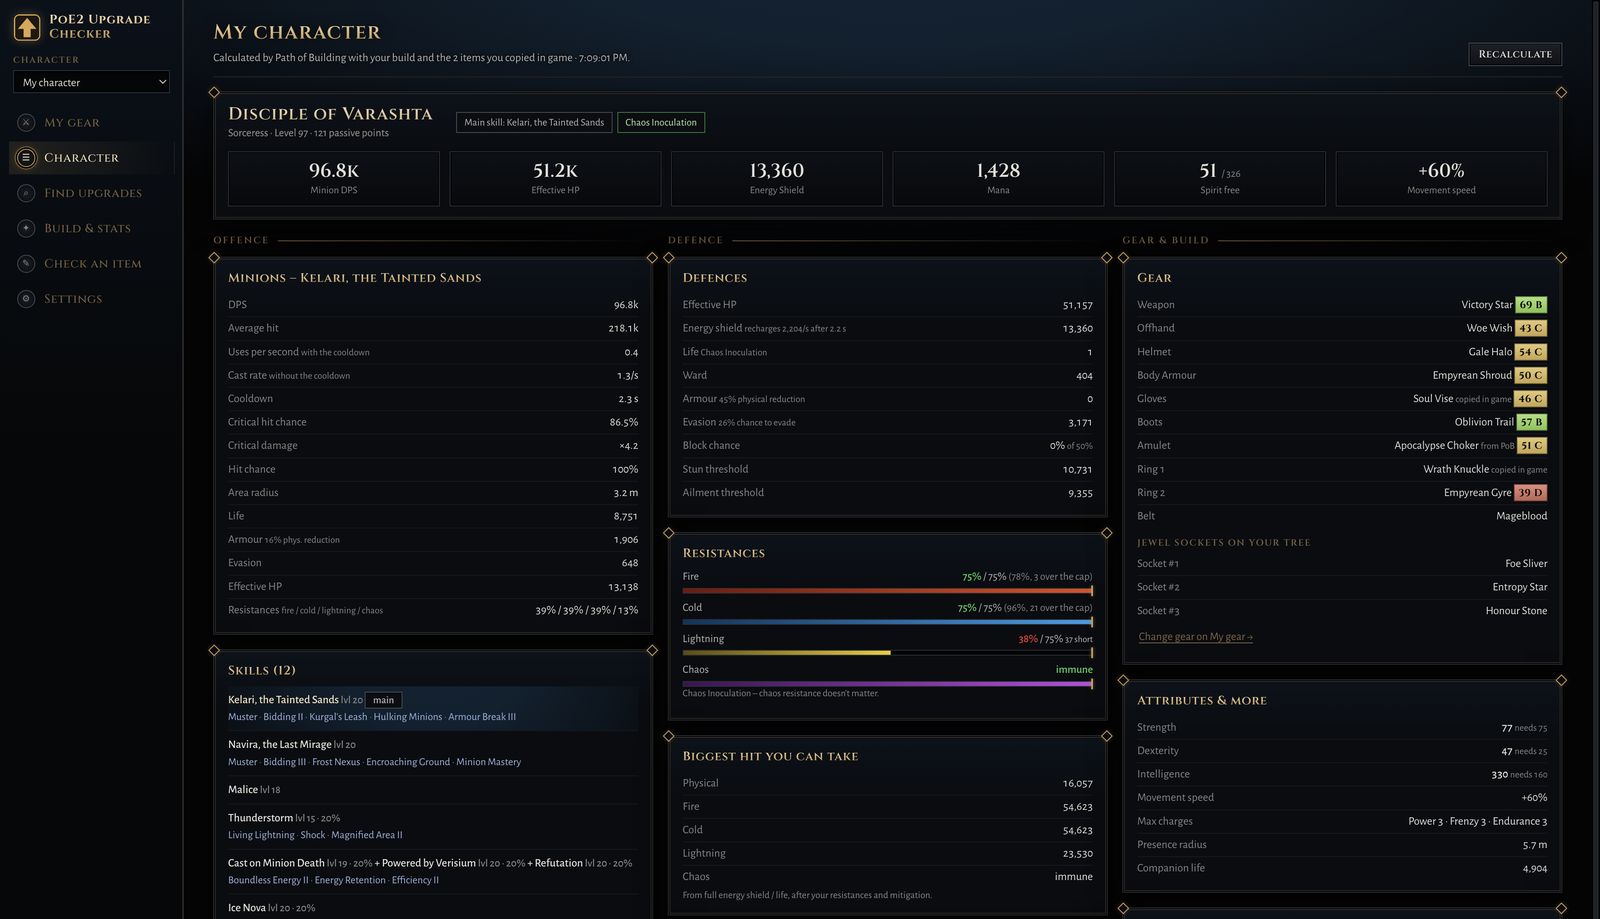
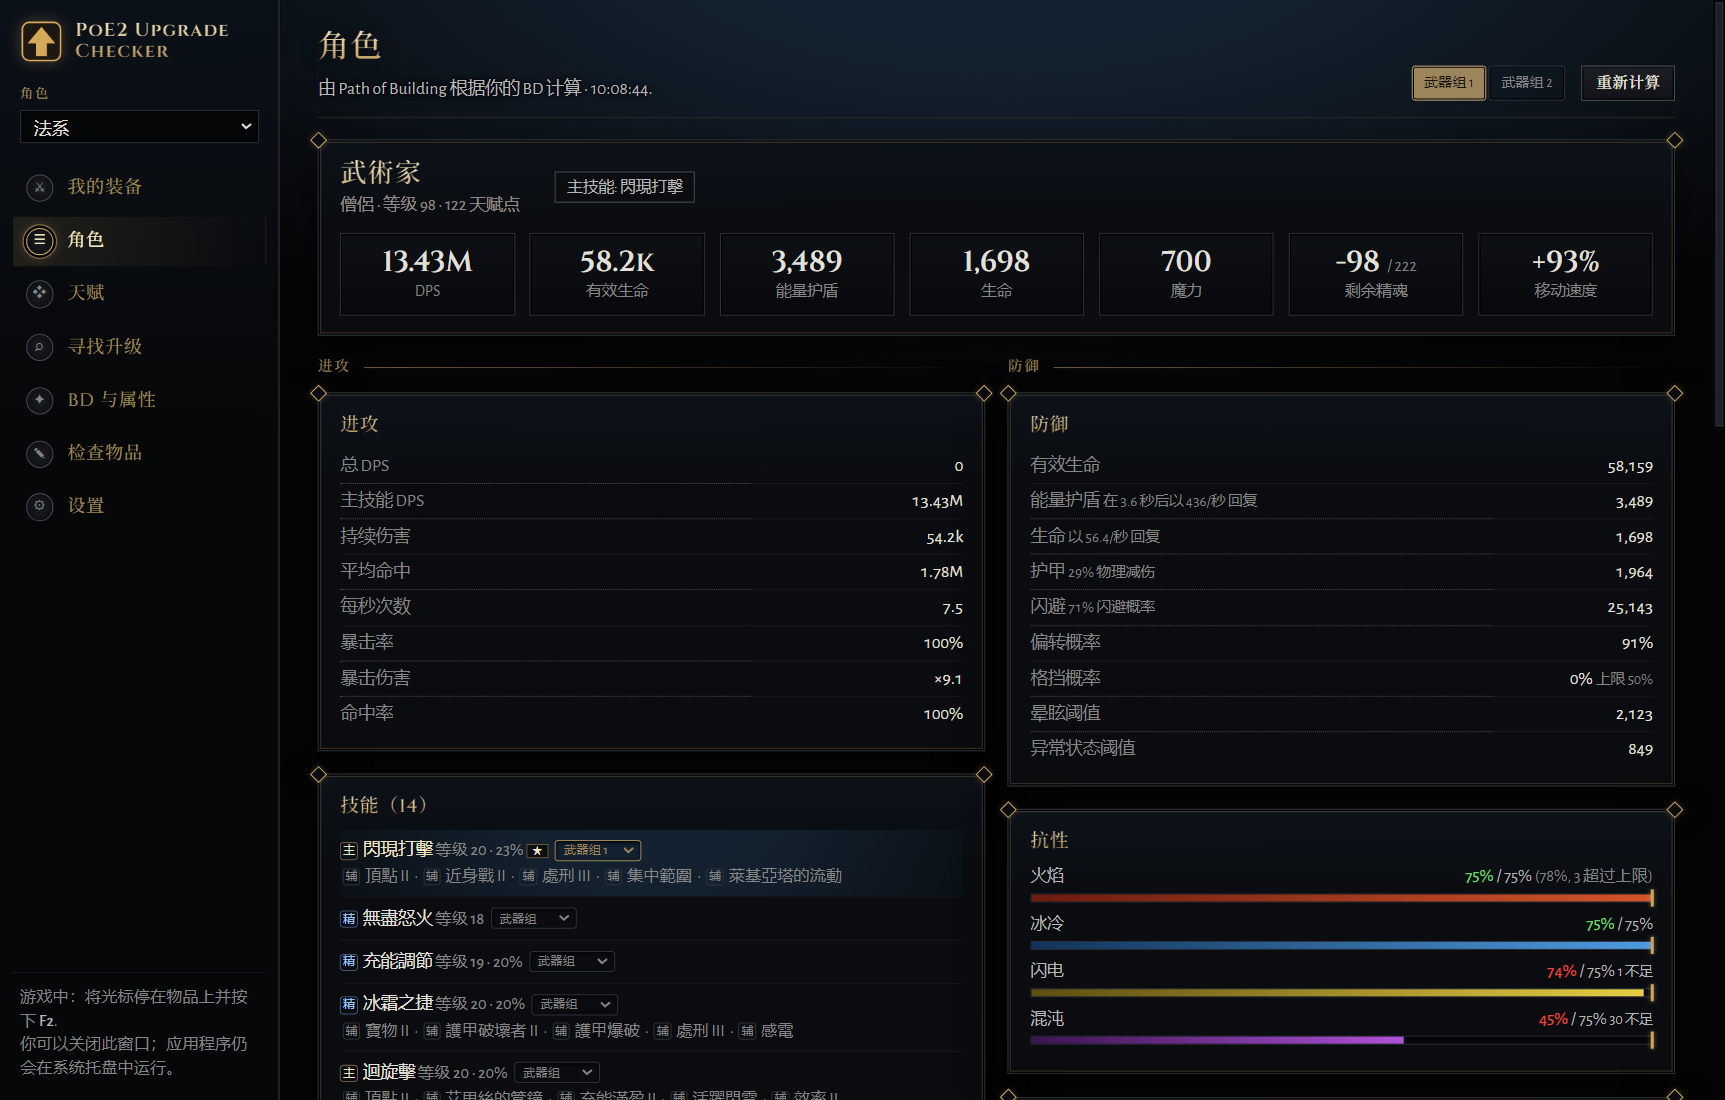
Fix character heading + working passive-tree filters; refresh screenshots
- Character page: the heading is the generic 'Character' instead of the profile
  name, which read like a build-type label (e.g. '法系') on an attack build.
- Passive tree: the legend chips (Allocated / weapon sets / Keystones /
  Notables / Ascendancy / small passives) now work as filters: click one to
  dim the rest and zoom to those nodes, click again to clear.
- Import: auto-picked gear-score profile now decides attack vs spell from the
  main skill's own attack tag, so an ES-heavy attack build is no longer set to
  the ES spellcaster profile just because its Energy Shield is high.
- README: replace screenshots with My gear / Character / Passive tree from the
  Chinese UI.

diff --git a/src/ui/passives.js b/src/ui/passives.js
@@ -39,6 +39,7 @@
   let view = { s: 0.02, x: 0, y: 0 }; // world -> screen: x*s + view.x
   let hover = null;
   let matches = new Set();
+  let filter = null; // a legend chip picked: highlight/zoom just those nodes
   let dragging = null;
 
   const canvas = $('#passCanvas');
@@ -92,6 +93,20 @@
   // shared points are yellow; points that only work with weapon set 1 / 2 are red / green
   function setOf(n) { return n.flags & 32 ? 1 : n.flags & 64 ? 2 : 0; }
   function allocColor(n) { const set = setOf(n); return set === 1 ? COLORS.set1 : set === 2 ? COLORS.set2 : COLORS.on; }
+
+  // which nodes a picked legend chip keeps in focus (the rest are dimmed)
+  function filterMatch(n) {
+    switch (filter) {
+      case 'on': return !!(n.flags & 8);
+      case 'set1': return setOf(n) === 1;
+      case 'set2': return setOf(n) === 2;
+      case 'keystone': return !!(n.flags & 2);
+      case 'notable': return !!(n.flags & 1);
+      case 'ascendancy': return !!(n.flags & 4);
+      case 'normal': return !(n.flags & (2 | 1 | 4 | 16));
+      default: return true;
+    }
+  }
 
   function colorOf(n) {
     if (n.flags & 8) return allocColor(n);
@@ -148,11 +163,13 @@
       }
       ctx.strokeStyle = edge;
       ctx.lineWidth = on ? Math.max(2, Math.min(3.4, view.s * 26)) : 1.2;
+      ctx.globalAlpha = filter && !(filterMatch(a) && filterMatch(c)) ? 0.1 : 1;
       ctx.beginPath();
       ctx.moveTo(a.x * view.s + view.x, a.y * view.s + view.y);
       ctx.lineTo(c.x * view.s + view.x, c.y * view.s + view.y);
       ctx.stroke();
     }
+    ctx.globalAlpha = 1;
 
     // nodes
     // node size follows the space between nodes, so the tree stays readable at any zoom
@@ -165,6 +182,8 @@
       const x = n.x * view.s + view.x;
       const y = n.y * view.s + view.y;
       const r = radiusPx(n) + ((n.flags & 8) && view.s < 0.05 ? 0.6 : 0);
+      const keep = !filter || filterMatch(n);
+      ctx.globalAlpha = keep ? 1 : 0.14; // unfocused nodes fade back when a legend chip is picked
       ctx.beginPath();
       ctx.arc(x, y, r, 0, Math.PI * 2);
       ctx.fillStyle = colorOf(n);
@@ -183,13 +202,15 @@
         ctx.strokeStyle = COLORS.jewel;
         ctx.stroke();
       }
-      if (hover === n || matches.has(n.id)) {
+      if (hover === n || matches.has(n.id) || (filter && keep)) {
+        ctx.globalAlpha = 1;
         ctx.beginPath();
         ctx.arc(x, y, r + 3, 0, Math.PI * 2);
         ctx.lineWidth = 1.4;
-        ctx.strokeStyle = hover === n ? '#fff4d6' : '#ffffff';
+        ctx.strokeStyle = hover === n ? '#fff4d6' : (filter ? '#ffe14d' : '#ffffff');
         ctx.stroke();
       }
+      ctx.globalAlpha = 1;
     }
 
     // names of the big nodes, once there is room for them
@@ -205,10 +226,12 @@
         const x = n.x * view.s + view.x;
         const y = n.y * view.s + view.y + radiusPx(n) + 3;
         const width = ctx.measureText(label).width;
+        ctx.globalAlpha = !filter || filterMatch(n) ? 1 : 0.15;
         ctx.fillStyle = 'rgba(10,9,7,.75)';
         ctx.fillRect(x - width / 2 - 2, y - 1, width + 4, 13);
         ctx.fillStyle = n.flags & 8 ? '#f4e2b8' : COLORS.label;
         ctx.fillText(label, x, y);
+        ctx.globalAlpha = 1;
       }
     }
     drawLegend();
@@ -224,7 +247,9 @@
       ['ascendancy', t('Ascendancy')],
       ['normal', t('Small passives')],
     ];
-    $('#passLegend').innerHTML = items.map(([k, label]) => `<span class="lg"><i style="background:${COLORS[k]}"></i>${esc(label)}</span>`).join('');
+    // the legend doubles as a filter: pick a kind to highlight/zoom those nodes, pick it again to clear
+    $('#passLegend').innerHTML = items.map(([k, label]) =>
+      `<span class="lg${filter === k ? ' on' : ''}" data-filter="${k}" role="button" tabindex="0"><i style="background:${COLORS[k]}"></i>${esc(label)}</span>`).join('');
   }
 
   function fitAll() {
@@ -241,6 +266,18 @@
     let minX = Infinity; let minY = Infinity; let maxX = -Infinity; let maxY = -Infinity;
     for (const n of on) { minX = Math.min(minX, n.x); minY = Math.min(minY, n.y); maxX = Math.max(maxX, n.x); maxY = Math.max(maxY, n.y); }
     const pad = 900;
+    const w = canvas.clientWidth || 800; const h = canvas.clientHeight || 520;
+    const s = Math.min(w / (maxX - minX + pad * 2), h / (maxY - minY + pad * 2));
+    view = { s, x: w / 2 - ((minX + maxX) / 2) * s, y: h / 2 - ((minY + maxY) / 2) * s };
+    draw();
+  }
+
+  // zoom to a subset (a picked legend chip) so the matching nodes fill the view
+  function fitTo(list) {
+    if (!list || !list.length) { draw(); return; }
+    let minX = Infinity; let minY = Infinity; let maxX = -Infinity; let maxY = -Infinity;
+    for (const n of list) { minX = Math.min(minX, n.x); minY = Math.min(minY, n.y); maxX = Math.max(maxX, n.x); maxY = Math.max(maxY, n.y); }
+    const pad = 700;
     const w = canvas.clientWidth || 800; const h = canvas.clientHeight || 520;
     const s = Math.min(w / (maxX - minX + pad * 2), h / (maxY - minY + pad * 2));
     view = { s, x: w / 2 - ((minX + maxX) / 2) * s, y: h / 2 - ((minY + maxY) / 2) * s };
@@ -392,6 +429,23 @@
     setMatches();
     const first = nodes.find((n) => matches.has(n.id));
     if (first) focusNode(first);
+  });
+
+  // the legend chips filter the tree: pick one to highlight + zoom to those nodes, pick it again to clear
+  $('#passLegend').addEventListener('click', (ev) => {
+    const el = ev.target.closest('[data-filter]');
+    if (!el) return;
+    const k = el.dataset.filter;
+    filter = filter === k ? null : k;
+    drawLegend();
+    if (!filter) { fitAll(); return; }
+    const list = nodes.filter(filterMatch);
+    if (list.length) fitTo(list); else draw();
+  });
+  $('#passLegend').addEventListener('keydown', (ev) => {
+    if (ev.key !== 'Enter' && ev.key !== ' ') return;
+    const el = ev.target.closest('[data-filter]');
+    if (el) { ev.preventDefault(); el.click(); }
   });
 
   document.querySelector('.tabs button[data-tab="passives"]').addEventListener('click', () => load(false));

diff --git a/src/main.js b/src/main.js
@@ -974,7 +974,19 @@ ipcMain.handle('pob:import', async (_e, input) => {
         engine = pobSummary(info);
         // the gear score (used when PoB can't judge something) gets a profile that fits this build
         if (!store.settings.buildPicked && engine) {
-          const fit = engine.dpsKey === 'MinionDPS' ? 'djinn-varashta' : (engine.es || 0) > (engine.life || 0) * 2 ? 'es-caster' : 'life-res';
+          // The "spellcaster" profile weights spell skill levels and spell/elemental damage, so it
+          // only fits real spell builds. Many attack builds are Energy-Shield-heavy too (an ES Monk,
+          // for one): decide by the main skill's own attack tag, not by Energy Shield vs Life alone.
+          let isAttack = false;
+          try {
+            const sheet = await pobEngine().sheet();
+            const mainGroup = sheet && Array.isArray(sheet.skills) ? sheet.skills.find((s) => s.main) : null;
+            isAttack = !!(mainGroup && Array.isArray(mainGroup.gems) && mainGroup.gems.some((g) => g.attack && !g.support));
+          } catch (_) { /* no sheet this time: fall back to the life/ES heuristic below */ }
+          const fit = engine.dpsKey === 'MinionDPS' ? 'djinn-varashta'
+            : isAttack ? 'life-res'
+            : (engine.es || 0) > (engine.life || 0) * 2 ? 'es-caster'
+            : 'life-res';
           if (fit !== store.settings.build) { store.setSetting('build', fit); log(`gear score profile set to ${fit} from the PoB build`); }
         }
         if (engine.mismatch.length) message.push(...engine.mismatch);

diff --git a/src/ui/style.css b/src/ui/style.css
@@ -633,6 +633,10 @@ body.panelwin { user-select: none; overflow-y: auto; }
 .pass-tools { display: flex; align-items: center; gap: 10px; margin-bottom: 6px; }
 .pass-legend { display: flex; flex-wrap: wrap; gap: 12px; font-size: 11.5px; color: var(--ash, #8a8177); margin: 2px 0 7px; }
 .pass-legend .lg i { display: inline-block; width: 8px; height: 8px; border-radius: 50%; margin-right: 5px; }
+.pass-legend .lg { cursor: pointer; user-select: none; padding: 1px 5px; border-radius: 3px; transition: background .12s, color .12s; }
+.pass-legend .lg:hover { color: #cfc6b8; background: rgba(255, 255, 255, .04); }
+.pass-legend .lg.on { color: #e0b070; background: rgba(224, 176, 112, .14); }
+.pass-legend .lg.on i { box-shadow: 0 0 0 2px rgba(224, 176, 112, .45); }
 .pass-wrap { position: relative; height: min(72vh, 760px); min-height: 380px; border: 1px solid var(--iron, #3a332c); border-radius: 4px; overflow: hidden; background: #0d0c0a; }
 #passCanvas { display: block; }
 .pass-tip { position: absolute; z-index: 5; width: 268px; padding: 7px 9px; border: 1px solid var(--iron, #3a332c); border-radius: 4px;

diff --git a/src/ui/character.js b/src/ui/character.js
@@ -36,7 +36,10 @@
       const [st, d] = await Promise.all([window.api.getState(), window.api.pobSheet(!!refresh)]);
       const prof = (st.profiles || []).find((p) => p.active);
       lastState = st;
-      $('#charTitle').textContent = prof ? prof.name : t('Character');
+      // The page heading stays generic ("Character"); the active character's name is in the sidebar
+      // selector. Putting the profile name here looked like a build-type label (e.g. "法系") on an
+      // attack build, which confused players.
+      $('#charTitle').textContent = t('Character');
       body.innerHTML = d.sheet ? sheetHtml(d, st) : noPobHtml(d, st);
       srcCache.clear();
       closeHover();

diff --git a/README.md b/README.md
@@ -26,14 +26,14 @@
 - 「我的裝備」页按槽位展示全身装备（含武器切换、珠宝、药剂、护符），导入 PoB 后自动填槽。
 - 「角色」页按 Path of Building 的计算展示：伤害 / 召唤物伤害、有效生命、能量护盾、抗性（对比上限）、最大承伤、精魂、属性、升华与关键天赋、装备评分等。
 
-<p align="center"><img src="docs/popup.png" alt="F2 悬浮窗：装备对比判定" width="380"> <img src="docs/my-gear.png" alt="我的裝備：全身装备与 PoB build" width="380"></p>
+<p align="center"><img src="docs/my-gear.png" alt="我的装备：按槽位展示全身装备，并给出整体装备评分与优先升级" width="820"></p>
 
 ### 3. 技能与天赋查看
 
 - **天賦页**：用 PoB 的天赋树数据在画布上绘出整棵 PoE2 天赋树，高亮你已点的路径；可缩放、拖拽、悬停查看节点属性、搜索节点。
 - **角色页**：展示技能及其辅助（主技能优先）、升华、关键天赋，以及属性来源明细（悬停 / 点击可查看某条角色属性的来源）。
 
-<p align="center"><img src="docs/character.png" alt="角色页：PoB 计算出的角色面板"></p>
+<p align="center"><img src="docs/character.png" alt="角色页：按 Path of Building 计算的角色面板，含技能与辅助" width="820"><br><br><img src="docs/passives.png" alt="天赋页：整棵 PoE2 天赋树，高亮已点路径；顶部标签可按类别高亮 / 聚焦" width="820"></p>
 
 ## 其他功能（简略）
 
